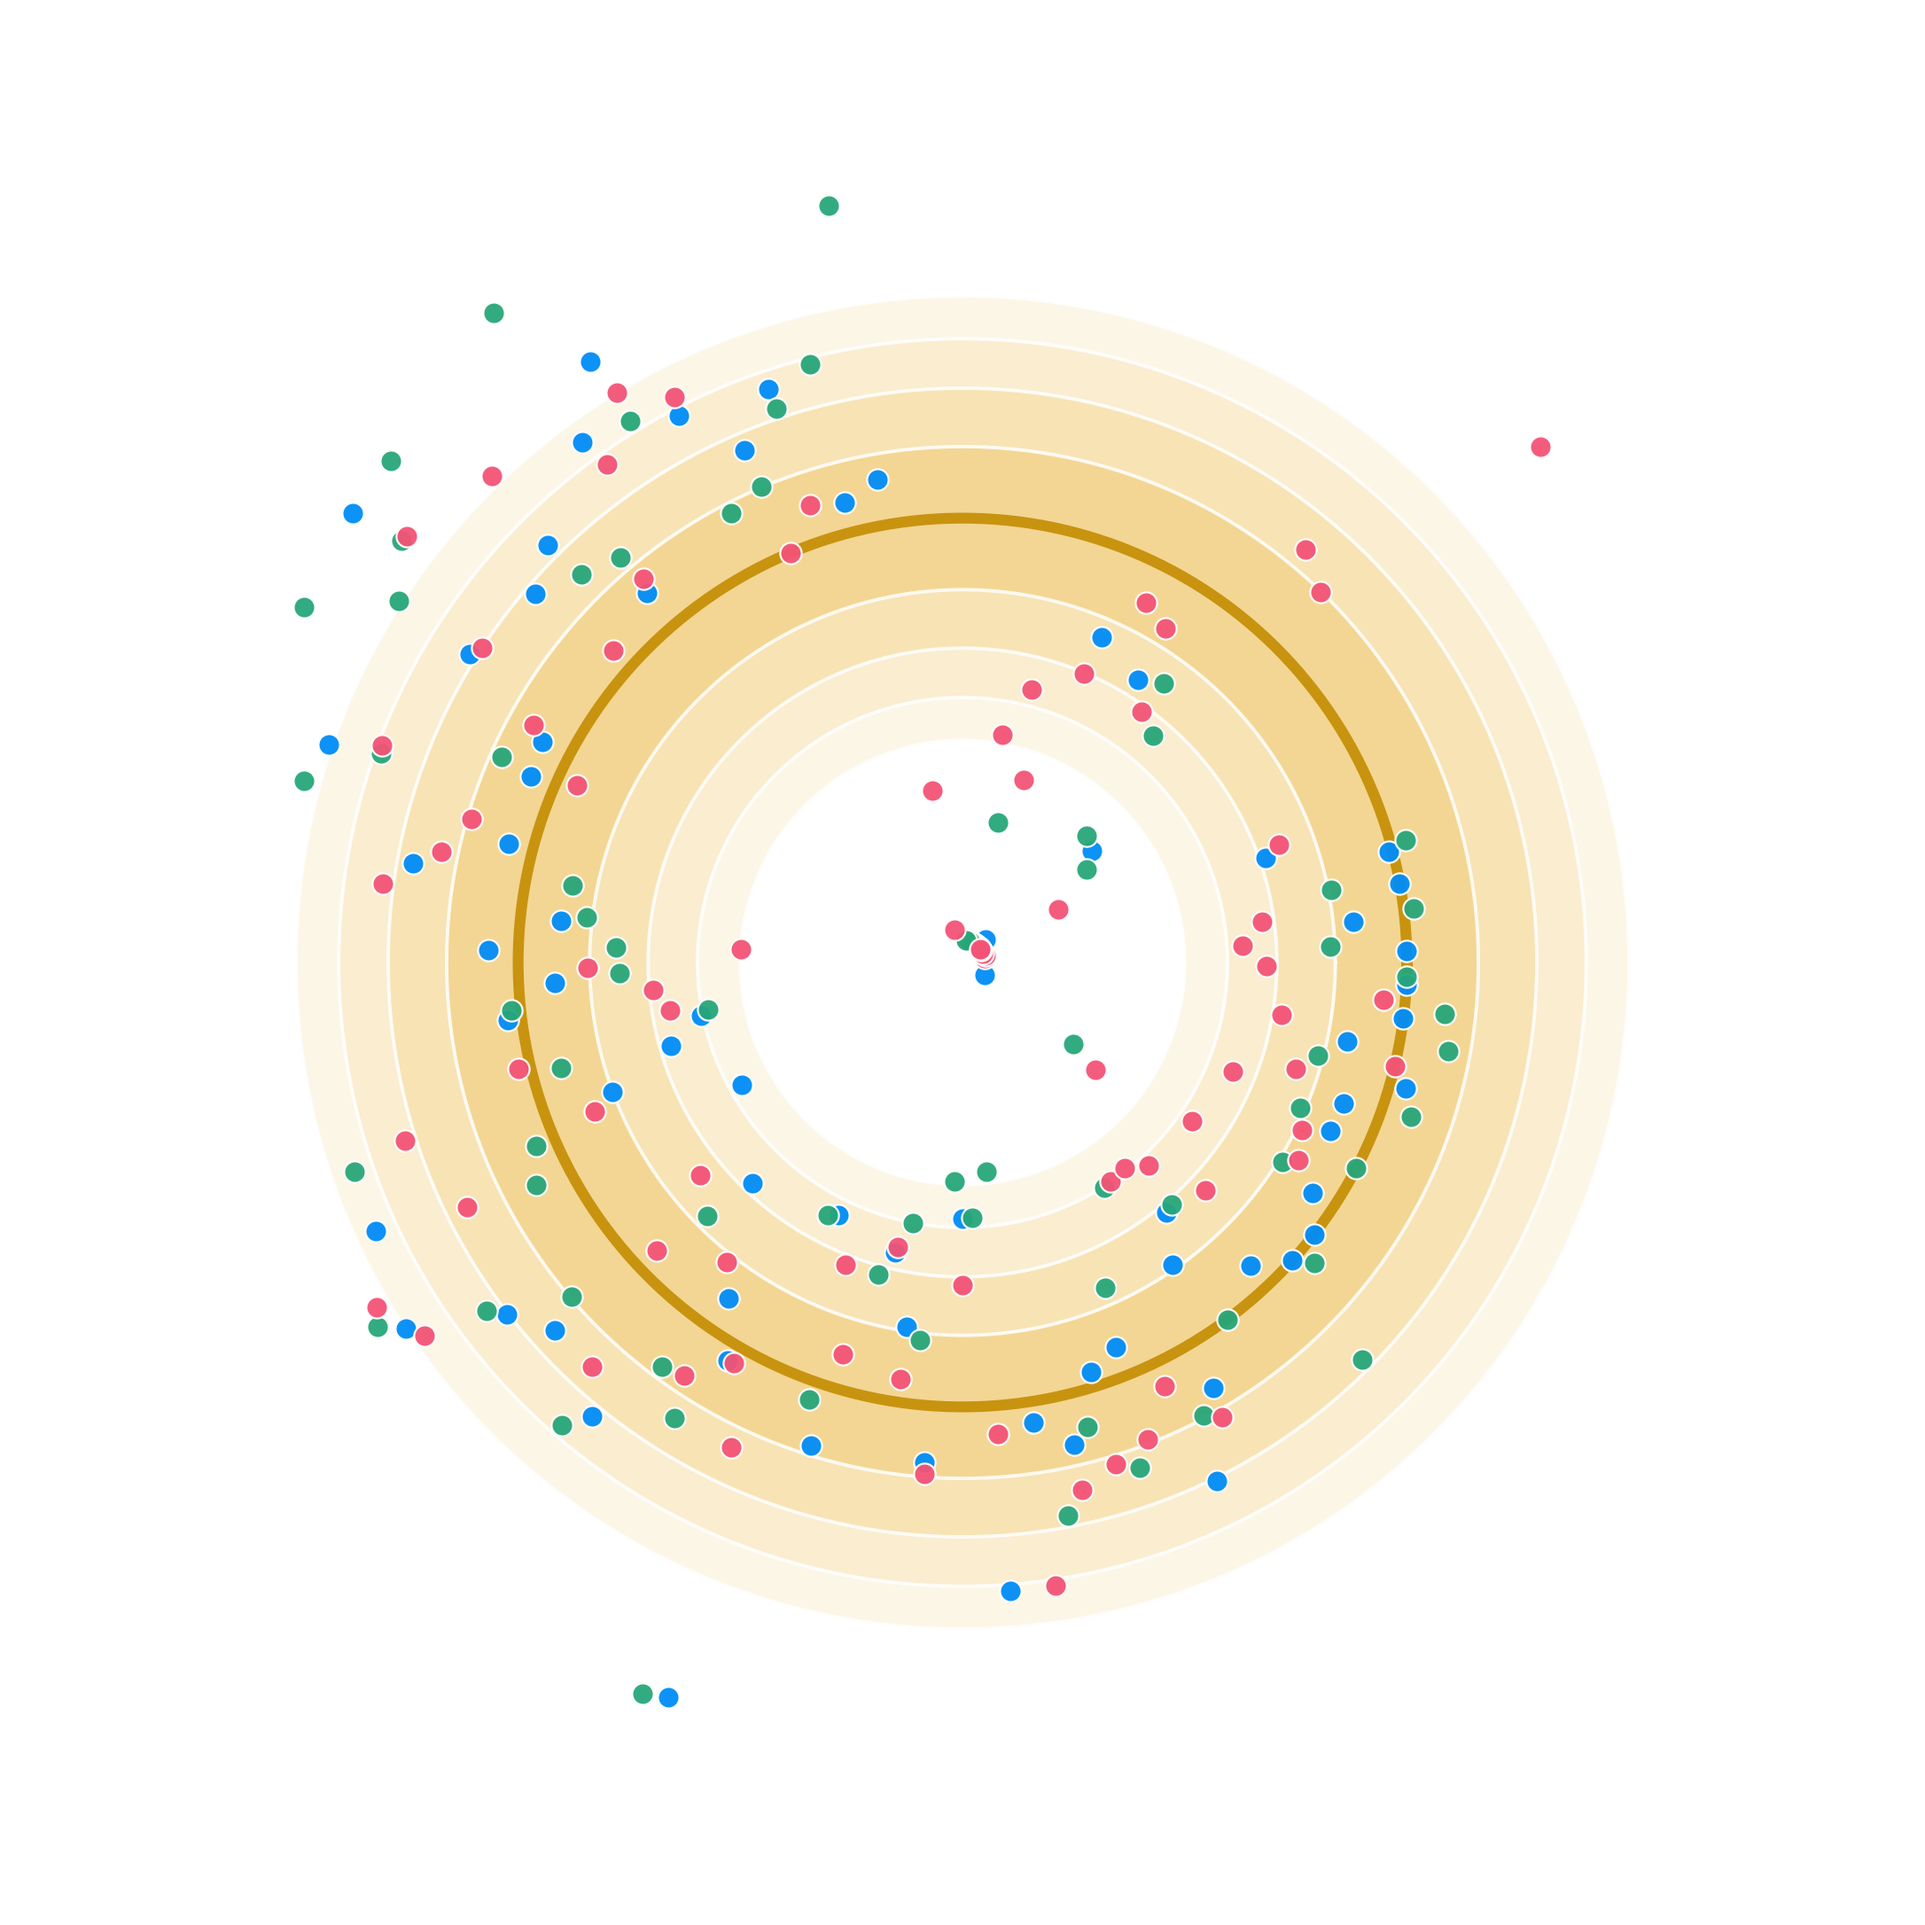
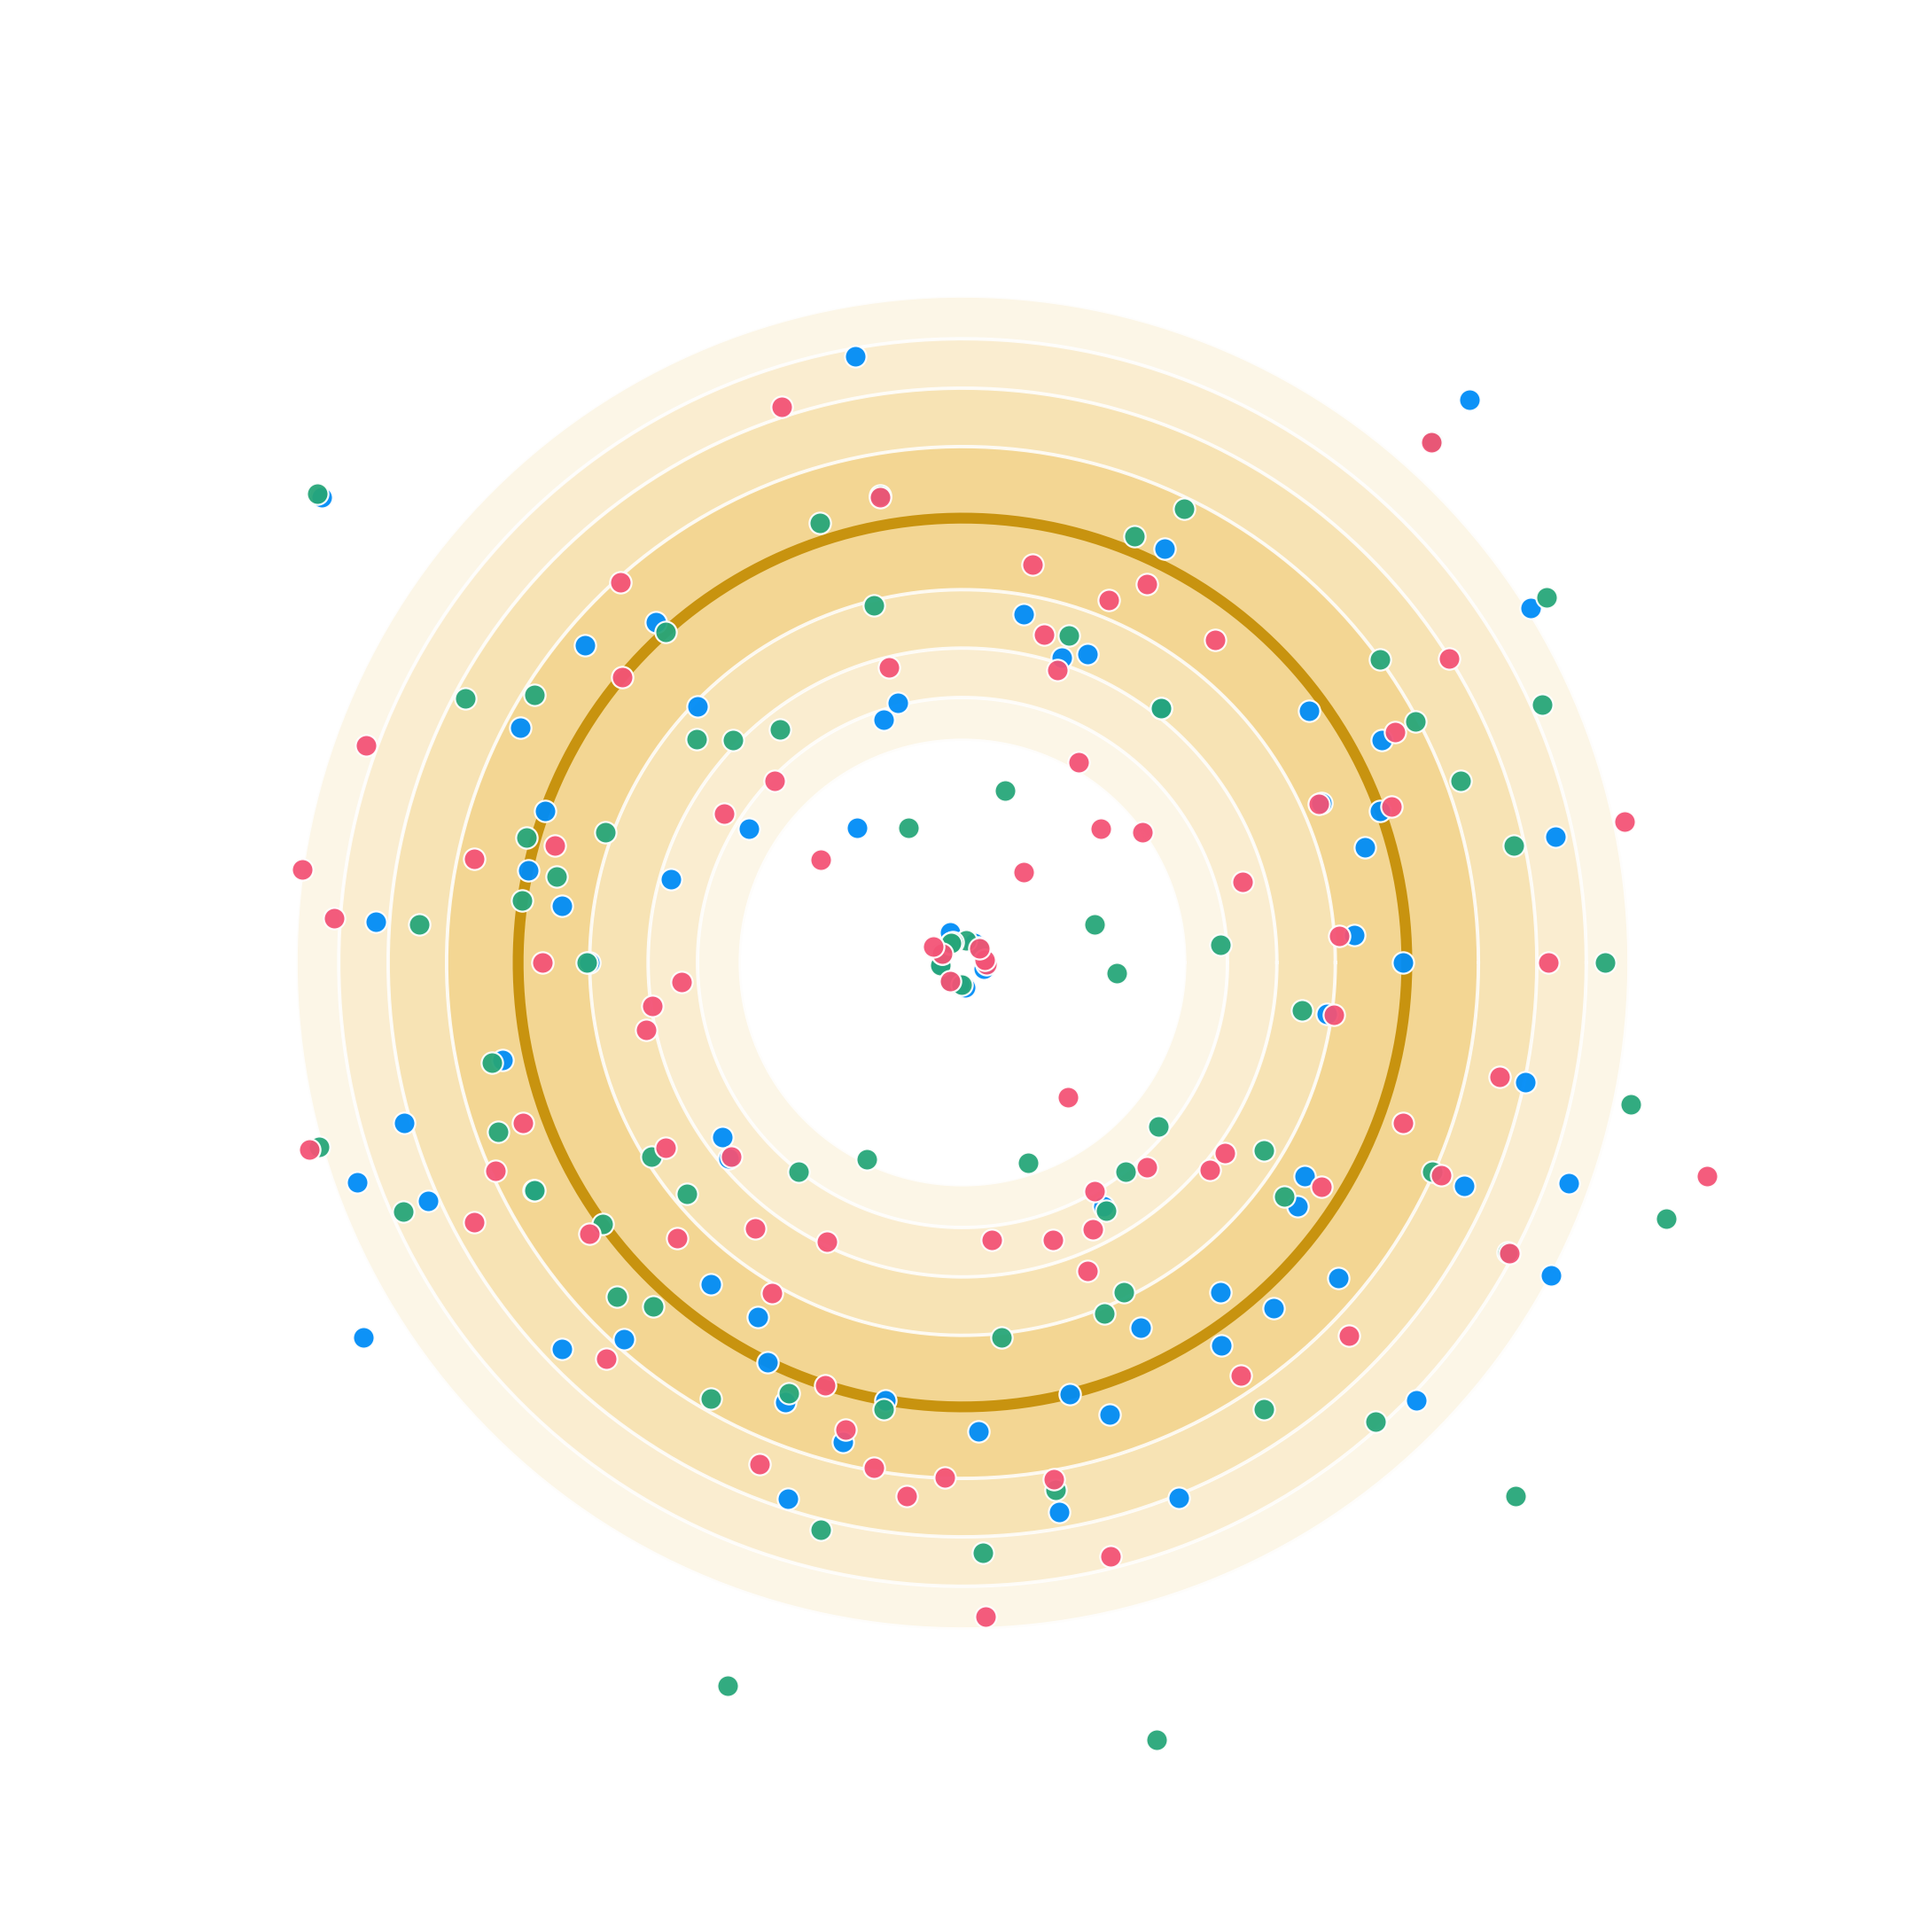
44k: shared angular axis = NNLS THI over-read (delta pp, user-specified) - all three channels point at the same map per angle

diff --git a/documentation/scripts/fig44k_spiral_um_combined.py b/documentation/scripts/fig44k_spiral_um_combined.py
@@ -88,19 +88,38 @@ for j, i in enumerate(qidx):
     P[j] = np.exp((w[:, None] * np.log(Y[idx] + _EPS)).sum(0)) - _EPS
 P = np.clip(P, 0, None)
 
-# 조건별 픽셀 fold 수집
+# 조건(맵)별 픽셀 fold 수집 — 세 채널이 같은 맵 키를 공유
 data = {s: {} for s in SUBS}
 for j, i in enumerate(qidx):
     y = Y[i]
     for k, s in enumerate(SUBS):
         if y[k] > 0:
-            data[s].setdefault((float(y[k]), cond[i]), []).append(
-                P[j, k] / y[k])
+            data[s].setdefault(cond[i], []).append(P[j, k] / y[k])
 
 for s in SUBS:
     allv = np.concatenate([np.asarray(v) for v in data[s].values()])
     w2 = ((allv >= 0.5) & (allv <= 2.0)).mean() * 100
     print(f"{s}: {len(data[s])} maps, {len(allv)} px, pixel within-2x={w2:.0f}%")
+
+# 맵 공통 배열축: NNLS의 THI 과대판독 Δ = 표면 THI% − 참 THI% (오름차순)
+# — 틈에서 출발해 돌수록 "THI가 비대로 읽힌" 맵. (사용자 지정 기준)
+import csv as _csv
+
+delta = {}
+for r in _csv.DictReader(open(os.path.join(
+        RES, "17_composition_all_conditions_master.csv"),
+        encoding="utf-8-sig")):
+    name = (f"DQ{float(r['DQ']):g}-TB{float(r['TBZ']):g}"
+            f"-TH{float(r['THI']):g}.csv")
+    delta[name] = (float(r["Ratio_THI_NNLS_Pred"])
+                   - float(r["Ratio_THI_True"]))
+maps = sorted({c for s in SUBS for c in data[s]},
+              key=lambda c: delta.get(c, 0.0))
+ANG = {c: a for c, a in zip(
+    maps, np.deg2rad(100) + np.linspace(0, np.deg2rad(340), len(maps)))}
+print("maps on shared axis:", len(maps),
+      "| delta range:", round(delta.get(maps[0], 0), 1), "→",
+      round(delta.get(maps[-1], 0), 1), "%p")
 
 
 def draw_window(ax):
@@ -119,12 +138,10 @@ def draw_window(ax):
 
 
 def draw_sub(s, ax, clouds=True):
-    recs = sorted(data[s].items())       # 각도 = 그 성분의 참 µM 순위
-    n = len(recs)
-    angs = np.deg2rad(100) + np.linspace(0, np.deg2rad(340), n)
-    jit = np.deg2rad(340) / n * 0.32
-    meds = []
-    for a, (_, v) in zip(angs, recs):
+    jit = np.deg2rad(340) / len(maps) * 0.32
+    angs, meds = [], []
+    for c, v in data[s].items():
+        a = ANG[c]
         v = np.asarray(v, float)
         if clouds:
             sub = v if len(v) <= PX_PER_COND else RNG.choice(
@@ -133,6 +150,7 @@ def draw_sub(s, ax, clouds=True):
                        np.clip(rad(sub), 0.05, 2 * RMAX + 0.12), s=2.4,
                        color=mute(CO[s]), alpha=0.38, edgecolor="none",
                        zorder=3)
+        angs.append(a)
         meds.append(np.median(v))
     ax.scatter(angs, np.clip(rad(np.asarray(meds)), 0.10, 2 * RMAX - 0.06),
                s=19, color=CO[s], alpha=0.95, edgecolor="white",
